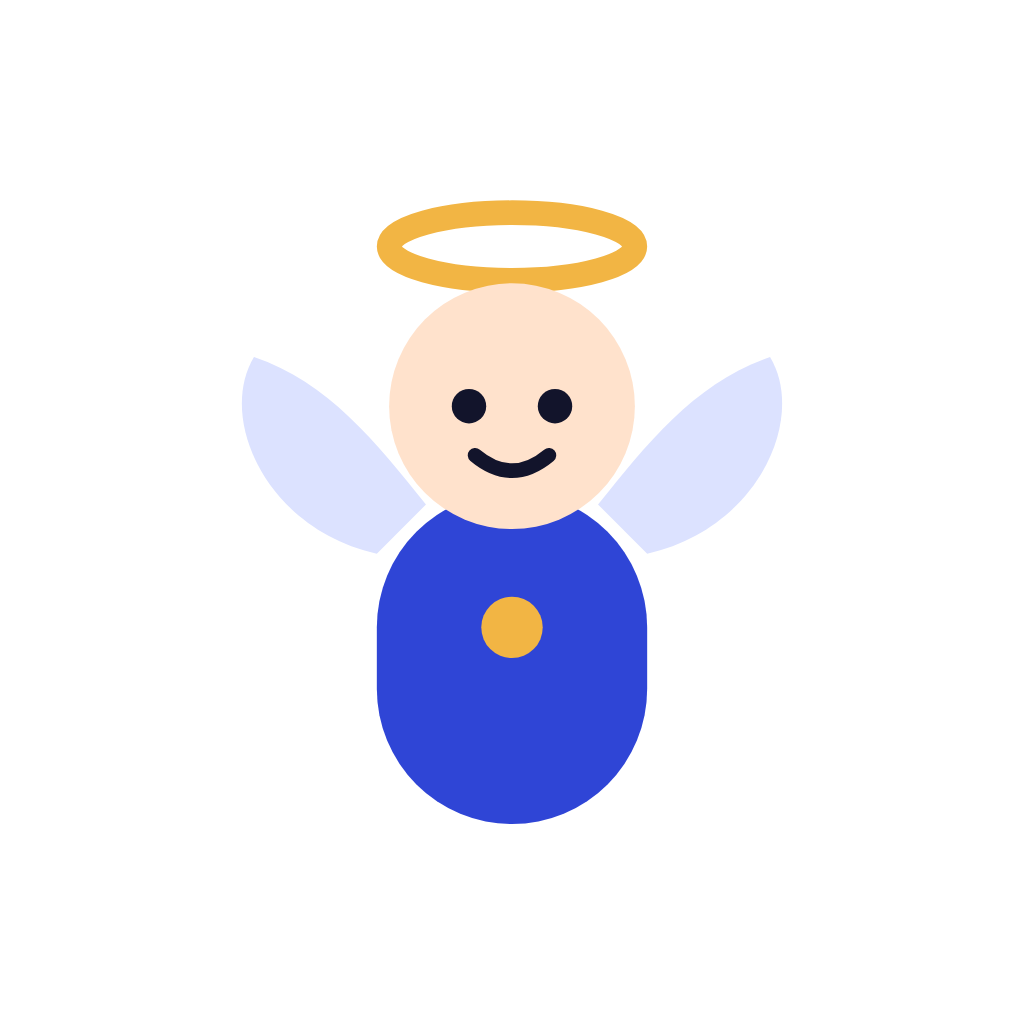
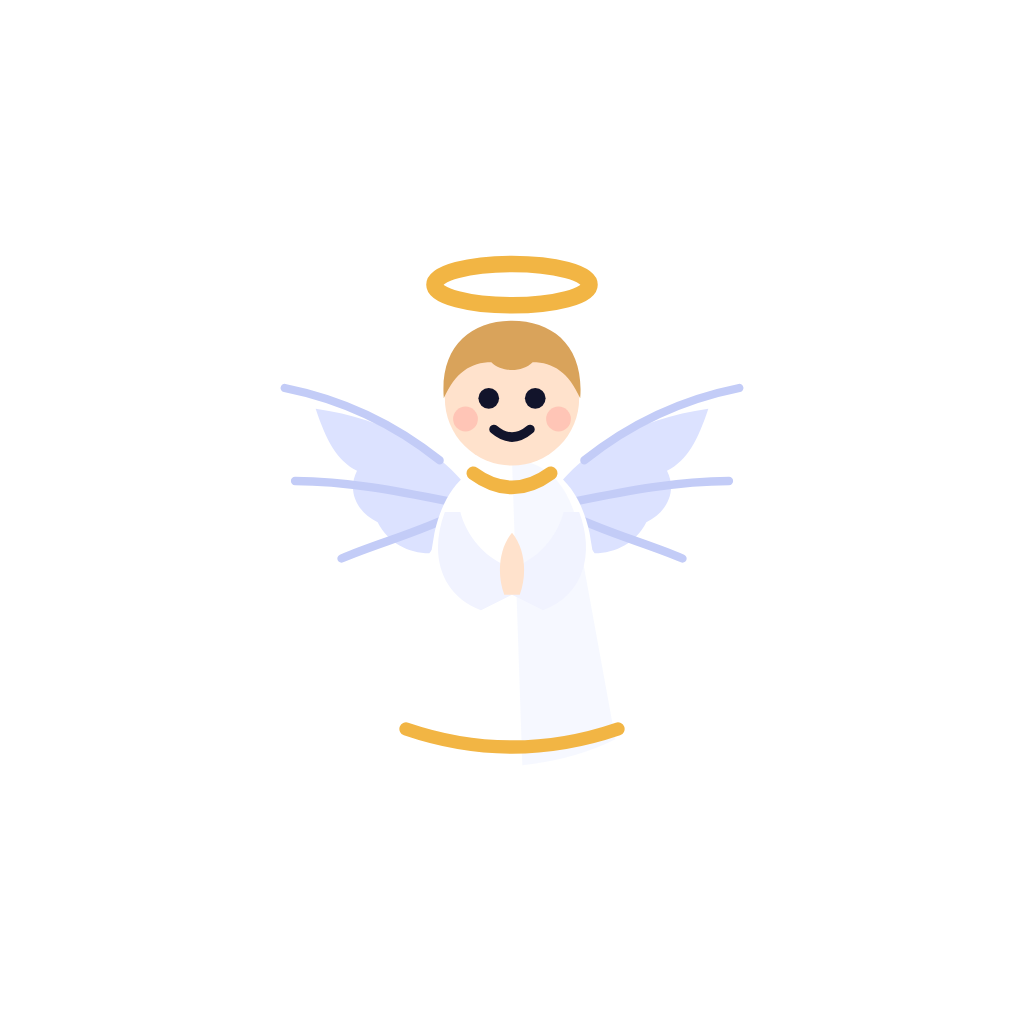
Redesenha o anjo da guarda e troca o ícone dos talentos
- Anjo com proporções clássicas: asas de penas, túnica longa com gola e barra
  douradas, mãos em oração, cabelo e auréola (versões feliz, sereno e festa)
- Talentos ganham ícone próprio: moeda dourada antiga com uma cruz
- Ícone do app e splash refeitos com o anjo novo

Claude-Session: https://claude.ai/code/session_0168yZX7Ktt6tpYwaPEEiaj6

Changed region(s): [[0.2188, 0.1875, 0.7812, 0.8125]]

diff --git a/src/components/Angel.tsx b/src/components/Angel.tsx
@@ -1,14 +1,37 @@
 /**
  * O anjo da guarda do Verbum — identidade "Luz".
- * Formas simples e chapadas, sem contorno. Túnica azul mariano com um ponto
- * de luz no peito, que brilha mais nas comemorações.
- * Expressões: feliz (padrão), sereno (olhos fechados) e festa (asas para cima).
+ * Proporções de anjo clássico: asas de penas atrás do corpo, túnica longa com
+ * gola e barra douradas, mãos em oração, cabelo e auréola. Formas chapadas.
+ * Expressões: feliz (padrão), sereno (olhos fechados) e festa (asas erguidas).
  */
-import Svg, { Circle, Ellipse, G, Path, Rect } from 'react-native-svg';
+import Svg, { Circle, Ellipse, G, Path } from 'react-native-svg';
 
 import { useTheme } from '@/theme';
 
 export type AngelMood = 'feliz' | 'sereno' | 'festa';
+
+const INK = '#12142B';
+const GOLD = '#F2B544';
+const SKIN = '#FFE2CC';
+const HAIR = '#D9A35B';
+
+function Wing({ fill, shade, line, edge, lift }: { fill: string; shade: string; line: string; edge?: string; lift: number }) {
+  return (
+    <G transform={`translate(0 ${lift})`}>
+      <Path
+        d="M52 52 C44 36 30 22 12 18 C10 26 12 32 16 36 C10 38 8 44 10 50 C14 50 16 52 18 54 C14 58 14 64 18 68 C22 66 25 67 27 69 C26 74 28 78 32 80 C40 74 48 66 52 58 Z"
+        fill={fill}
+        stroke={edge ?? 'none'}
+        strokeWidth={1.4}
+        strokeLinejoin="round"
+      />
+      <Path d="M52 56 C46 48 36 42 22 40 C24 46 26 50 30 52 C28 56 30 60 34 62 C36 66 40 68 44 68 C47 64 50 60 52 56 Z" fill={shade} />
+      <Path d="M16 36 C26 38 36 42 46 50" stroke={line} strokeWidth={1.6} fill="none" strokeLinecap="round" />
+      <Path d="M18 54 C28 54 38 56 48 58" stroke={line} strokeWidth={1.6} fill="none" strokeLinecap="round" />
+      <Path d="M27 69 C34 66 42 64 50 60" stroke={line} strokeWidth={1.6} fill="none" strokeLinecap="round" />
+    </G>
+  );
+}
 
 export function Angel({
   size = 96,
@@ -21,61 +44,75 @@ export function Angel({
   onPrimary?: boolean;
 }) {
   const { dark } = useTheme();
-  const wing = onPrimary ? '#DCE2FF' : dark ? '#3A4590' : '#DCE2FF';
-  const robe = onPrimary ? '#FFFFFF' : '#2F45D6';
-  const skin = '#FFE2CC';
-  const ink = '#12142B';
-  const light = '#F2B544';
   const party = mood === 'festa';
+  const wing = dark && !onPrimary ? '#C9D2FF' : '#FFFFFF';
+  const wingShade = dark && !onPrimary ? '#9FAEF5' : '#DCE2FF';
+  const wingLine = onPrimary ? '#C3CCF7' : '#B9C4F5';
+  const wingEdge = onPrimary || dark ? undefined : '#C9D2F7';
+  const robe = onPrimary ? '#FFFFFF' : '#2F45D6';
+  const robeShade = onPrimary ? '#E6EAFF' : '#2638B8';
+  const sleeve = onPrimary ? '#F1F3FF' : '#3E55E3';
+  const lift = party ? -6 : 0;
+  const wingProps = { fill: wing, shade: wingShade, line: wingLine, edge: wingEdge, lift };
 
   return (
     <Svg width={size} height={size} viewBox="0 0 120 120" accessibilityRole="image" accessibilityLabel="Seu anjo da guarda">
-      {party && <Circle cx={60} cy={64} r={54} fill={onPrimary ? '#FFFFFF' : light} opacity={onPrimary ? 0.1 : 0.14} />}
-      {/* auréola */}
-      <Ellipse cx={60} cy={16} rx={20} ry={5.5} fill="none" stroke={light} strokeWidth={4} />
+      {party && <Circle cx={60} cy={62} r={54} fill={onPrimary ? '#FFFFFF' : GOLD} opacity={onPrimary ? 0.1 : 0.14} />}
+
       {/* asas */}
-      {party ? (
-        <G>
-          <Path d="M38 62 C18 54 10 32 16 22 C30 28 38 42 46 54 Z" fill={wing} />
-          <Path d="M82 62 C102 54 110 32 104 22 C90 28 82 42 74 54 Z" fill={wing} />
-        </G>
-      ) : (
-        <G>
-          <Path d="M38 66 C20 62 12 44 18 34 C30 38 38 48 46 58 Z" fill={wing} />
-          <Path d="M82 66 C100 62 108 44 102 34 C90 38 82 48 74 58 Z" fill={wing} />
-        </G>
-      )}
-      {/* túnica */}
-      <Rect x={38} y={56} width={44} height={54} rx={22} fill={robe} />
-      <Circle cx={60} cy={78} r={party ? 6.5 : 5} fill={light} />
-      {party && <Circle cx={60} cy={78} r={11} fill={light} opacity={0.25} />}
-      {/* cabeça */}
-      <Circle cx={60} cy={42} r={20} fill={skin} />
+      <Wing {...wingProps} />
+      <G transform="translate(120 0) scale(-1 1)">
+        <Wing {...wingProps} />
+      </G>
+
+      {/* túnica longa */}
+      <Path d="M60 50 C52 50 47 55 45 64 L38 106 Q60 113 82 106 L75 64 C73 55 68 50 60 50 Z" fill={robe} />
+      <Path d="M60 50 C66 50 70 54 72 60 L80 104 Q72 108 62 109 Z" fill={robeShade} opacity={0.35} />
+      <Path d="M52.5 52.5 Q60 58 67.5 52.5" stroke={GOLD} strokeWidth={2.6} fill="none" strokeLinecap="round" />
+      <Path d="M39.5 102 Q60 109 80.5 102" stroke={GOLD} strokeWidth={2.6} fill="none" strokeLinecap="round" />
+
+      {/* mangas e mãos em oração */}
+      <Path d="M47 60 C44 68 46 76 54 79 L60 76 L58 70 C54 68 51 64 50 60 Z" fill={sleeve} />
+      <Path d="M73 60 C76 68 74 76 66 79 L60 76 L62 70 C66 68 69 64 70 60 Z" fill={sleeve} />
+      <Path d="M60 64 C57.5 67 57 72 58.5 76 L61.5 76 C63 72 62.5 67 60 64 Z" fill={SKIN} />
+
+      {/* cabeça e cabelo */}
+      <Circle cx={60} cy={38} r={13} fill={SKIN} />
+      <Path
+        d="M46.8 38 C46 28 52 23 60 23 C68 23 74 28 73.2 38 C71 33 68 31 64 31 C62 33 58 33 56 31 C52 31 49 33 46.8 38 Z"
+        fill={HAIR}
+      />
+      <Circle cx={51} cy={42} r={2.4} fill="#FFB3A7" opacity={0.6} />
+      <Circle cx={69} cy={42} r={2.4} fill="#FFB3A7" opacity={0.6} />
+
+      {/* rosto */}
       {mood === 'sereno' ? (
         <G>
-          <Path d="M50 43 Q53 46 56 43" stroke={ink} strokeWidth={2.4} fill="none" strokeLinecap="round" />
-          <Path d="M64 43 Q67 46 70 43" stroke={ink} strokeWidth={2.4} fill="none" strokeLinecap="round" />
-          <Path d="M55 50 Q60 53 65 50" stroke={ink} strokeWidth={2.2} fill="none" strokeLinecap="round" />
+          <Path d="M53 38 Q55.5 40.5 58 38" stroke={INK} strokeWidth={2} fill="none" strokeLinecap="round" />
+          <Path d="M62 38 Q64.5 40.5 67 38" stroke={INK} strokeWidth={2} fill="none" strokeLinecap="round" />
+          <Path d="M56.5 44.5 Q60 46.5 63.5 44.5" stroke={INK} strokeWidth={1.8} fill="none" strokeLinecap="round" />
         </G>
       ) : party ? (
         <G>
-          <Path d="M50 42 Q53 38 56 42" stroke={ink} strokeWidth={2.4} fill="none" strokeLinecap="round" />
-          <Path d="M64 42 Q67 38 70 42" stroke={ink} strokeWidth={2.4} fill="none" strokeLinecap="round" />
-          <Path d="M53 49 Q60 57 67 49 Z" fill={ink} />
+          <Path d="M53 38.5 Q55.5 35.5 58 38.5" stroke={INK} strokeWidth={2} fill="none" strokeLinecap="round" />
+          <Path d="M62 38.5 Q64.5 35.5 67 38.5" stroke={INK} strokeWidth={2} fill="none" strokeLinecap="round" />
+          <Path d="M56 43.5 Q60 49 64 43.5 Z" fill={INK} />
         </G>
       ) : (
         <G>
-          <Circle cx={53} cy={42} r={2.8} fill={ink} />
-          <Circle cx={67} cy={42} r={2.8} fill={ink} />
-          <Path d="M54 50 Q60 55 66 50" stroke={ink} strokeWidth={2.4} fill="none" strokeLinecap="round" />
+          <Circle cx={55.5} cy={38} r={2} fill={INK} />
+          <Circle cx={64.5} cy={38} r={2} fill={INK} />
+          <Path d="M56.5 44 Q60 47 63.5 44" stroke={INK} strokeWidth={1.8} fill="none" strokeLinecap="round" />
         </G>
       )}
-      <Circle cx={47} cy={48} r={3} fill="#FFB3A7" opacity={0.55} />
-      <Circle cx={73} cy={48} r={3} fill="#FFB3A7" opacity={0.55} />
+
+      {/* auréola */}
+      <Ellipse cx={60} cy={16} rx={15} ry={4} fill="none" stroke={GOLD} strokeWidth={3.2} />
+
       {party && (
         <G>
-          <Path d="M14 18 l2.5 5 l5.5 1 l-4 3.5 l1 5.5 l-5 -2.7 l-5 2.7 l1 -5.5 l-4 -3.5 l5.5 -1 Z" fill={light} />
-          <Path d="M104 10 l2 4 l4 0.8 l-3 2.8 l0.8 4 l-3.8 -2 l-3.8 2 l0.8 -4 l-3 -2.8 l4 -0.8 Z" fill={light} />
+          <Path d="M14 92 l2 4 l4.4 .8 l-3.2 3 l.8 4.4 l-4 -2.2 l-4 2.2 l.8 -4.4 l-3.2 -3 l4.4 -.8 Z" fill={GOLD} />
+          <Path d="M104 88 l1.6 3.2 l3.5 .6 l-2.6 2.4 l.6 3.5 l-3.1 -1.7 l-3.1 1.7 l.6 -3.5 l-2.6 -2.4 l3.5 -.6 Z" fill={GOLD} />
         </G>
       )}
     </Svg>

diff --git a/src/app/(tabs)/hoje.tsx b/src/app/(tabs)/hoje.tsx
@@ -6,6 +6,7 @@ import { Pressable, View } from 'react-native';
 import { AngelSays, Button, Card, ProgressBar, Screen, T } from '@/components/ui';
 import { DEFAULT_ANGEL_NAME, greeting, pick, PLAN_ADJUSTED, WELCOME_BACK } from '@/content/angel';
 import { getTrail, TRAILS } from '@/content/trails';
+import { TalentIcon } from '@/components/TalentIcon';
 import { WeekStrip } from '@/components/WeekStrip';
 import { getCompletedLessons, useDataVersion } from '@/db/user';
 import { useGamification } from '@/hooks/useGamification';
@@ -85,7 +86,7 @@ export default function Hoje() {
           style={{ flexDirection: 'row', gap: SPACE.sm }}
         >
           <Pill icon="flame" value={g.streak} />
-          <Pill icon="diamond" value={g.talentos} />
+          <Pill icon="talento" value={g.talentos} />
         </Pressable>
       </View>
       <AngelSays text={message} mood={welcomeBack ? 'festa' : 'feliz'} />
@@ -235,14 +236,14 @@ export default function Hoje() {
   );
 }
 
-function Pill({ icon, value }: { icon: 'flame' | 'diamond'; value: number }) {
+function Pill({ icon, value }: { icon: 'flame' | 'talento'; value: number }) {
   const { c, dark } = useTheme();
   const flame = icon === 'flame';
-  const bg = flame ? (dark ? '#3A2A10' : '#FFF1D6') : c.primarySoft;
-  const fg = flame ? (dark ? '#F5C76A' : '#7A4A06') : dark ? c.text : '#1F2FA0';
+  const bg = flame ? (dark ? '#3A2A10' : '#FFF1D6') : dark ? '#33290F' : '#FFF6E0';
+  const fg = dark ? '#F5C76A' : '#7A4A06';
   return (
     <View style={{ flexDirection: 'row', alignItems: 'center', gap: 6, backgroundColor: bg, borderRadius: 999, paddingHorizontal: 12, minHeight: 36 }}>
-      <Ionicons name={icon} size={16} color={flame ? '#E8902A' : c.primary} />
+      {flame ? <Ionicons name="flame" size={16} color="#E8902A" /> : <TalentIcon size={18} />}
       <T variant="bodyStrong" color={fg}>
         {value}
       </T>

diff --git a/src/app/ofensiva.tsx b/src/app/ofensiva.tsx
@@ -3,6 +3,7 @@ import { useState } from 'react';
 import { View } from 'react-native';
 
 import { AngelSays, Button, Card, Screen, T } from '@/components/ui';
+import { TalentIcon } from '@/components/TalentIcon';
 import { WeekStrip } from '@/components/WeekStrip';
 import { buyCandle } from '@/db/user';
 import { useGamification } from '@/hooks/useGamification';
@@ -63,7 +64,10 @@ export default function Ofensiva() {
             <Ionicons key={i} name={i < g.velas ? 'flame' : 'flame-outline'} size={28} color={i < g.velas ? c.gold : c.textMuted} accessibilityLabel={i < g.velas ? 'vela' : 'espaço vazio'} />
           ))}
         </View>
-        <T>Você tem {g.talentos} talentos.</T>
+        <View style={{ flexDirection: 'row', alignItems: 'center', gap: SPACE.sm }}>
+          <TalentIcon size={22} />
+          <T>Você tem {g.talentos} talentos.</T>
+        </View>
         <Button title={`Comprar vela · ${CANDLE_PRICE} talentos`} icon="flame-outline" onPress={buy} />
         {msg && <T variant="caption">{msg}</T>}
       </Card>

diff --git a/src/components/TalentIcon.tsx b/src/components/TalentIcon.tsx
@@ -1,0 +1,16 @@
+/**
+ * Ícone dos talentos: uma moeda dourada antiga com uma pequena cruz,
+ * lembrando a parábola dos talentos (Mt 25,14-30).
+ */
+import Svg, { Circle, Path } from 'react-native-svg';
+
+export function TalentIcon({ size = 18 }: { size?: number }) {
+  return (
+    <Svg width={size} height={size} viewBox="0 0 24 24" accessibilityElementsHidden importantForAccessibility="no">
+      <Circle cx={12} cy={12} r={10.5} fill="#F2B544" />
+      <Circle cx={12} cy={12} r={7.6} fill="none" stroke="#C98A12" strokeWidth={1.4} />
+      <Path d="M12 7.6 V16.4 M8.6 10.8 H15.4" stroke="#8A5A00" strokeWidth={2} strokeLinecap="round" />
+      <Path d="M5.6 7.4 A8 8 0 0 1 9 4.6" stroke="#FFE3A3" strokeWidth={1.4} fill="none" strokeLinecap="round" />
+    </Svg>
+  );
+}

diff --git a/CLAUDE.md b/CLAUDE.md
@@ -31,10 +31,10 @@ Ao fim de cada fase: mostrar o que foi feito e como testar no Expo Go.
 - **Testes**: `node:test` via `tsx` (sem Jest), para lógica pura. `npm test`.
 - **Onboarding = questionário** (nome, objetivos, experiência, momento na fé, tempo, horário), cada pergunta com "Pular" e opção de pular tudo; depois notificações, nome do anjo e uma **sugestão** de começo (trilha, plano ou explorar) — `src/lib/recommend.ts`. Trilhas não são mais impostas.
 - **Check-in diário** (antecipado da Fase 2): a primeira atividade do dia (capítulo lido ou lição concluída) é o check-in → +10 talentos, +30 a cada 7 dias seguidos. **Ofensiva** = dias seguidos com check-in ou protegidos. **Velas** (50 talentos, máx. 2, 1 de presente) protegem dias perdidos automaticamente ao abrir o app. Sem velas, a ofensiva recomeça sem bronca. Lógica pura em `src/lib/streak.ts`.
-- **Moeda**: "talentos" (parábola dos talentos), com ícone de diamante — confirmado.
+- **Moeda**: "talentos" (parábola dos talentos) — confirmado. Ícone: moeda dourada antiga com uma cruz (`src/components/TalentIcon.tsx`), não diamante.
 - **Notificações locais** (`src/lib/notifications.ts`): lembrete diário no horário escolhido, aviso de ofensiva em risco (20h30) e Angelus (6h/12h/18h), reagendadas para 7 dias a cada abertura/check-in/mudança. Funcionam no Expo Go.
 - **Ofensiva com amigos**: depende de conta e servidor → Fase 4 (Supabase).
-- **Identidade visual: "Luz"** (escolhida entre Luz, Vitral e Aurora). Fundo névoa `#F6F7FB`, azul mariano `#2F45D6`, dourado-luz `#F2B544`, tinta `#12142B`; Plus Jakarta Sans (interface, títulos em ExtraBold) + Newsreader (texto bíblico); cantos grandes (cartões 28 px), cartões sem contorno no tema claro; cartão principal azul. Anjo: formas chapadas, túnica azul com ponto de luz no peito (`onPrimary` = túnica branca sobre azul). Ícone e splash em `assets/` gerados a partir do anjo.
+- **Identidade visual: "Luz"** (escolhida entre Luz, Vitral e Aurora). Fundo névoa `#F6F7FB`, azul mariano `#2F45D6`, dourado-luz `#F2B544`, tinta `#12142B`; Plus Jakarta Sans (interface, títulos em ExtraBold) + Newsreader (texto bíblico); cantos grandes (cartões 28 px), cartões sem contorno no tema claro; cartão principal azul. Anjo da guarda clássico em formas chapadas: asas de penas atrás do corpo, túnica longa azul com gola e barra douradas, mãos em oração, cabelo e auréola (`onPrimary` = túnica branca sobre azul). Evitar proporções de "bichinho" (cabeça grande + corpo redondo): a dona do projeto achou que parecia um inseto. Ícone e splash em `assets/` gerados a partir do anjo.
 
 ## Estrutura
 ```
